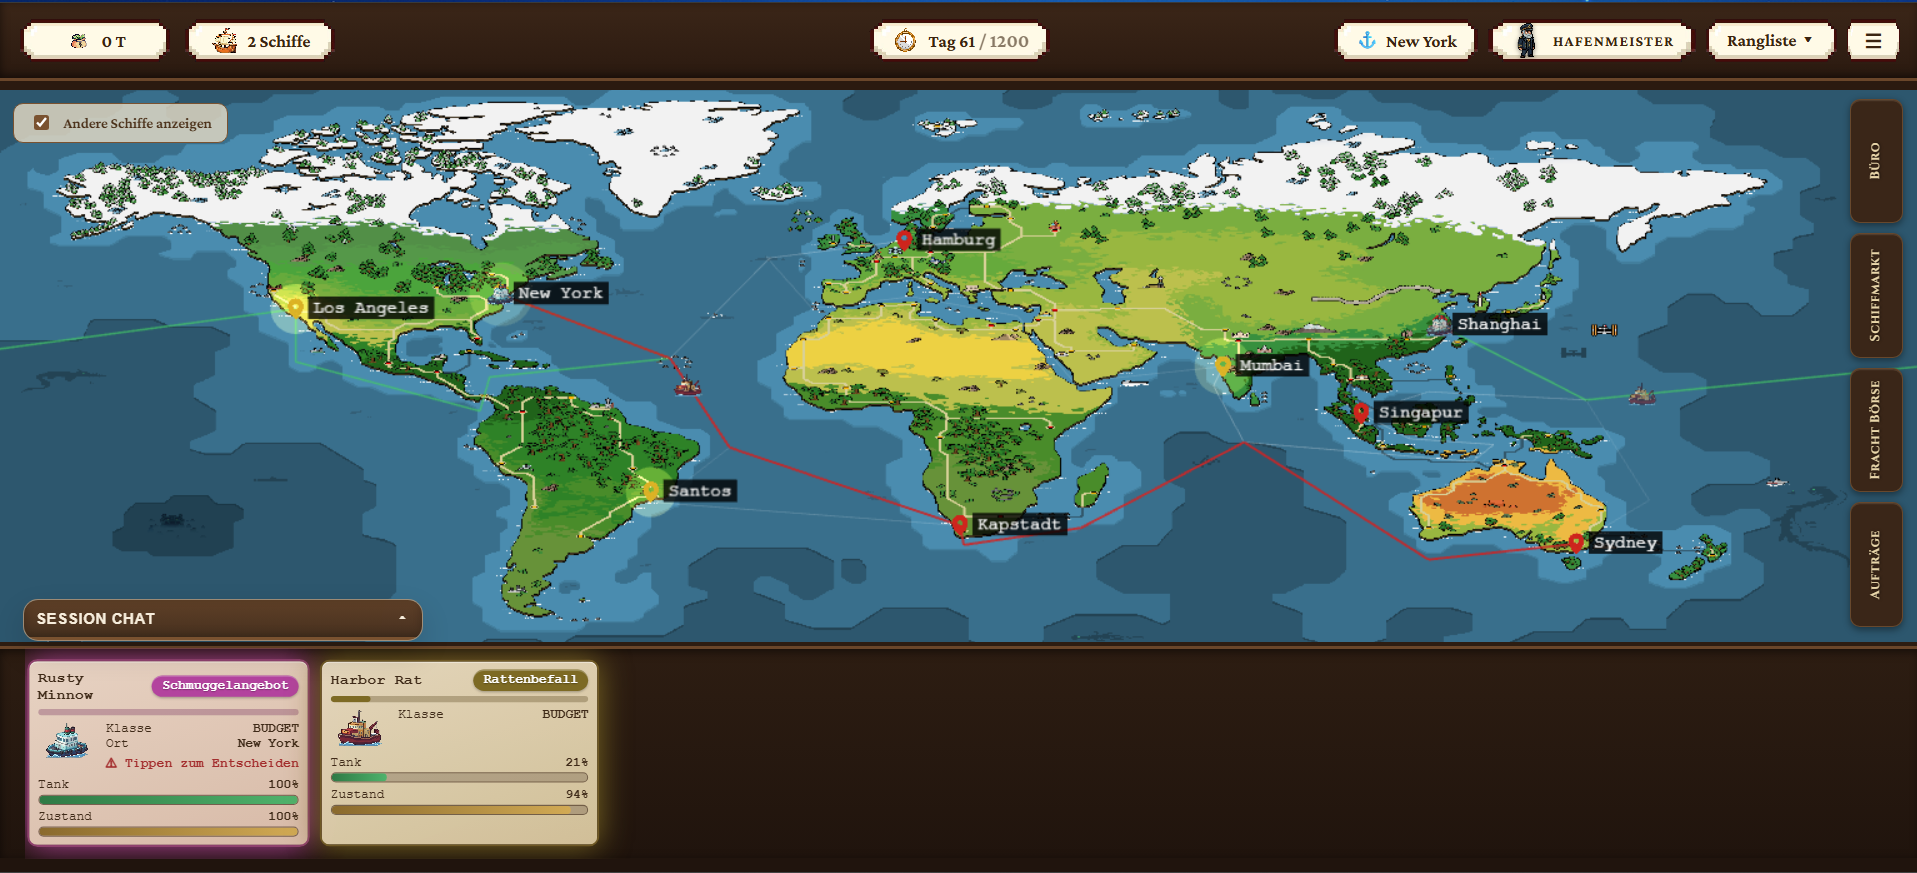
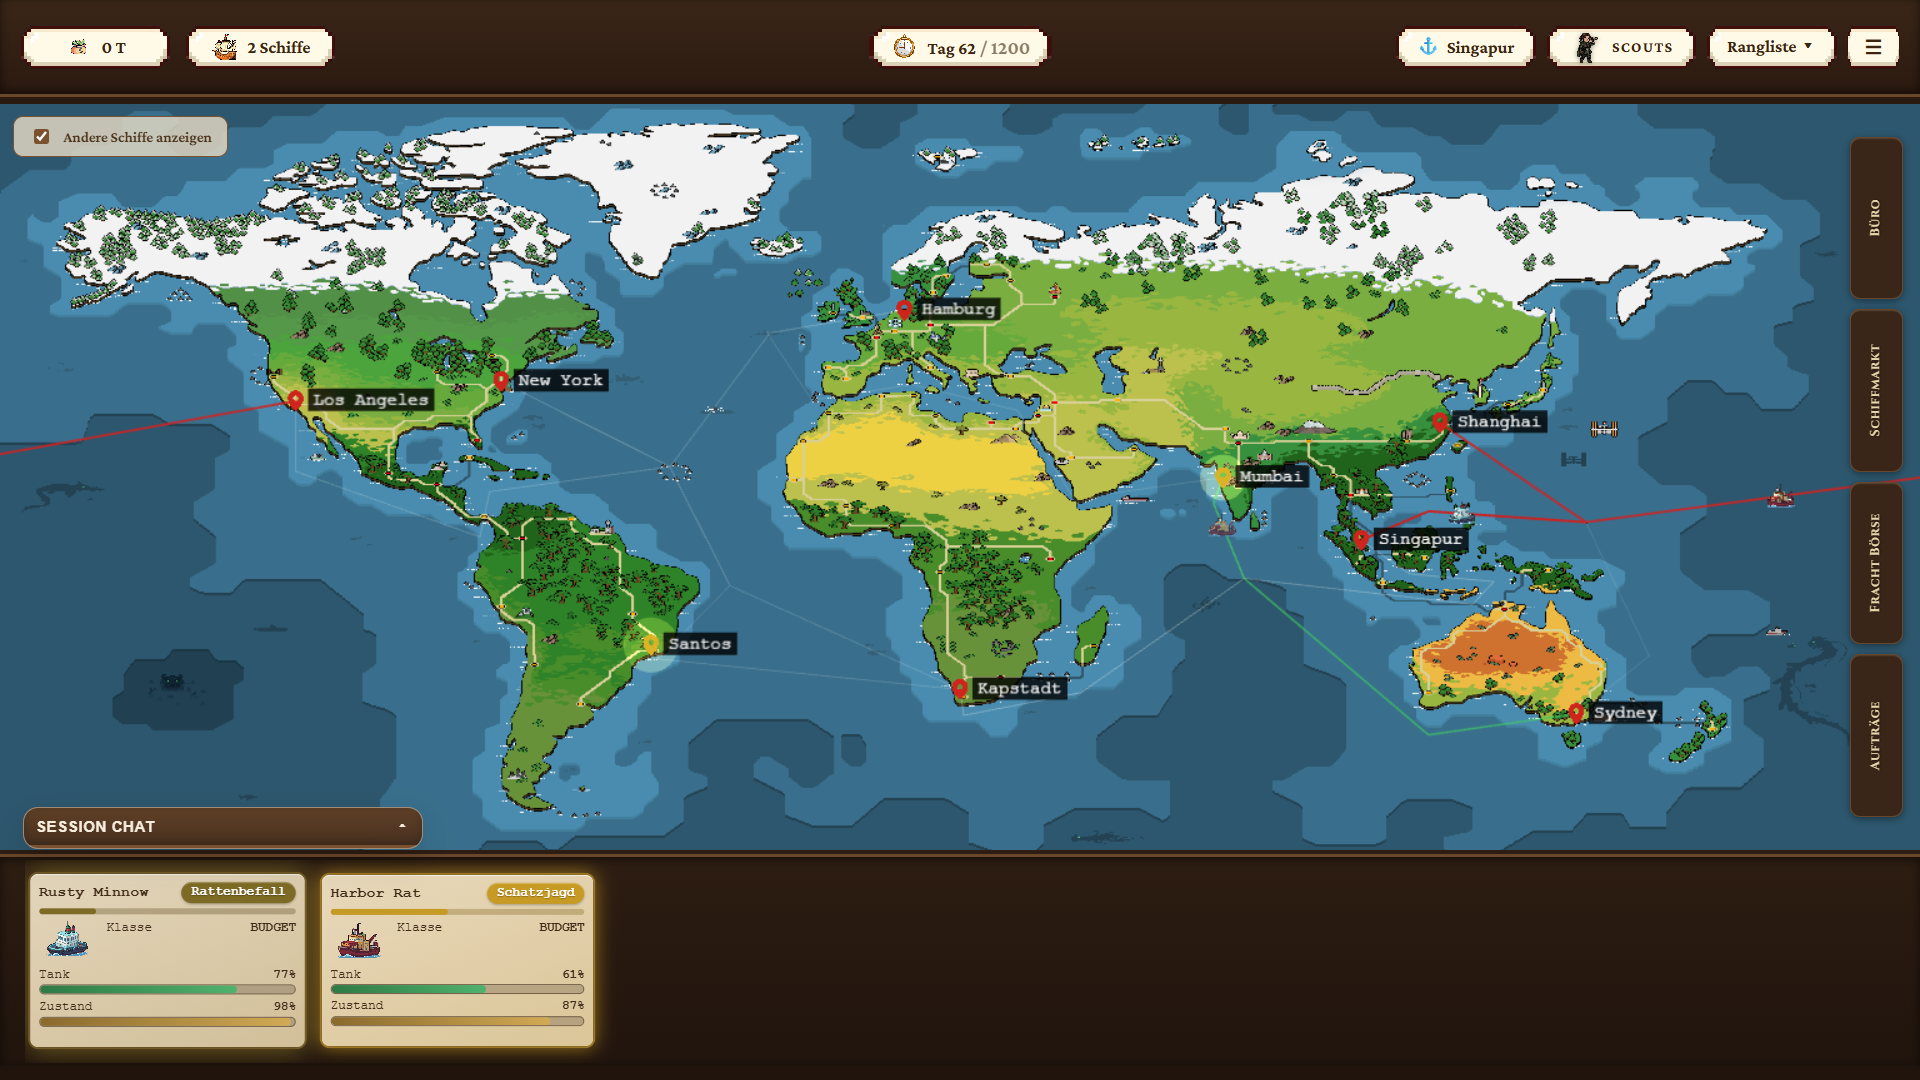
feat: enhance session management by implementing player removal and host reassignment logic in lobby and update post.qmd

diff --git a/backend/src/test/java/at/fhv/backend/application/services/Gamesessionleaverejoinservicetest.java b/backend/src/test/java/at/fhv/backend/application/services/Gamesessionleaverejoinservicetest.java
@@ -75,7 +75,58 @@ class GameSessionLeaveRejoinServiceTest {
         when(gameSessionRepository.save(any())).thenAnswer(inv -> inv.getArgument(0));
     }
 
+    // Hilfsmethode: Session im Warteraum (LOBBY) mit Host + Gast.
+    private GameSession buildLobbySession(UUID hostId, UUID guestId) {
+        GameSession session = new GameSession(hostId, 4, 5, 100, Duration.ofMinutes(30));
+        session.addPlayer(new BaseSessionPlayer(hostId, session.getId(), "Host", true));
+        session.addPlayer(new BaseSessionPlayer(guestId, session.getId(), "Guest", false));
+        return session;
+    }
+
     // ── leaveSession ──
+
+    @Test
+    void givenLobbySession_whenGuestLeaves_thenPlayerIsRemovedFromList() {
+        UUID hostId = UUID.randomUUID();
+        UUID guestId = UUID.randomUUID();
+        GameSession session = buildLobbySession(hostId, guestId);
+        mockLockAndSave(session);
+
+        service.leaveSession(session.getId(), guestId);
+
+        assertThat(session.isPlayerInSession(guestId)).isFalse();
+        assertThat(session.getPlayers()).hasSize(1);
+    }
+
+    @Test
+    void givenLobbySession_whenHostLeaves_thenHostIsRemovedAndGuestBecomesHost() {
+        UUID hostId = UUID.randomUUID();
+        UUID guestId = UUID.randomUUID();
+        GameSession session = buildLobbySession(hostId, guestId);
+        mockLockAndSave(session);
+
+        service.leaveSession(session.getId(), hostId);
+
+        assertThat(session.isPlayerInSession(hostId)).isFalse();
+        assertThat(session.getHostUserId()).isEqualTo(guestId);
+        ISessionPlayer guest = session.getPlayers().stream()
+                .filter(p -> p.getUserId().equals(guestId)).findFirst().orElseThrow();
+        assertThat(guest.isHost()).isTrue();
+    }
+
+    @Test
+    void givenLobbySession_whenLastPlayerLeaves_thenSessionIsDeleted() {
+        UUID hostId = UUID.randomUUID();
+        GameSession session = new GameSession(hostId, 4, 5, 100, Duration.ofMinutes(30));
+        session.addPlayer(new BaseSessionPlayer(hostId, session.getId(), "Host", true));
+        when(gameSessionRepository.findByIdWithLock(session.getId()))
+                .thenReturn(Optional.of(session));
+
+        SessionDTO result = service.leaveSession(session.getId(), hostId);
+
+        assertThat(result).isNull();
+        verify(gameSessionRepository).deleteById(session.getId());
+    }
 
     @Test
     void givenRunningSession_whenGuestLeaves_thenPlayerLeftIsBroadcast() {

diff --git a/backend/src/main/java/at/fhv/backend/application/services/impl/session/GameSessionServiceImpl.java b/backend/src/main/java/at/fhv/backend/application/services/impl/session/GameSessionServiceImpl.java
@@ -186,11 +186,22 @@ public class GameSessionServiceImpl implements GameSessionService {
 
         boolean wasHost = session.getHostUserId().equals(userId);
 
-        // Spieler als "getrennt" markieren – funktioniert auch in einer laufenden
-        // Session. Der Spieler bleibt mit allen Daten (Fraktion, Heimathafen,
-        // Kontostand) erhalten, ebenso seine Schiffe & Cargos, damit er später
-        // wieder beitreten kann.
-        session.leave(userId);
+        boolean inLobby = session.getStatus() == SessionStatus.LOBBY
+                || session.getStatus() == SessionStatus.FACTION_SELECTION;
+
+        if (inLobby) {
+            // Im Warteraum (Lobby/Fraktionsauswahl) wird der Spieler vollständig
+            // aus der Session entfernt, sodass er nicht mehr in der Spielerliste
+            // der übrigen Teilnehmer auftaucht. Ein Wiederbeitritt ist hier nicht
+            // nötig – der Spieler kann jederzeit erneut über den Game-Code beitreten.
+            session.removePlayer(userId);
+        } else {
+            // In einer laufenden Partie wird der Spieler nur als "getrennt"
+            // markiert. Er bleibt mit allen Daten (Fraktion, Heimathafen,
+            // Kontostand) erhalten, ebenso seine Schiffe & Cargos, damit er
+            // später wieder beitreten kann.
+            session.leave(userId);
+        }
 
         // Kein verbundener Spieler mehr übrig → Session beenden und Tick stoppen.
         if (session.getConnectedPlayerCount() == 0) {